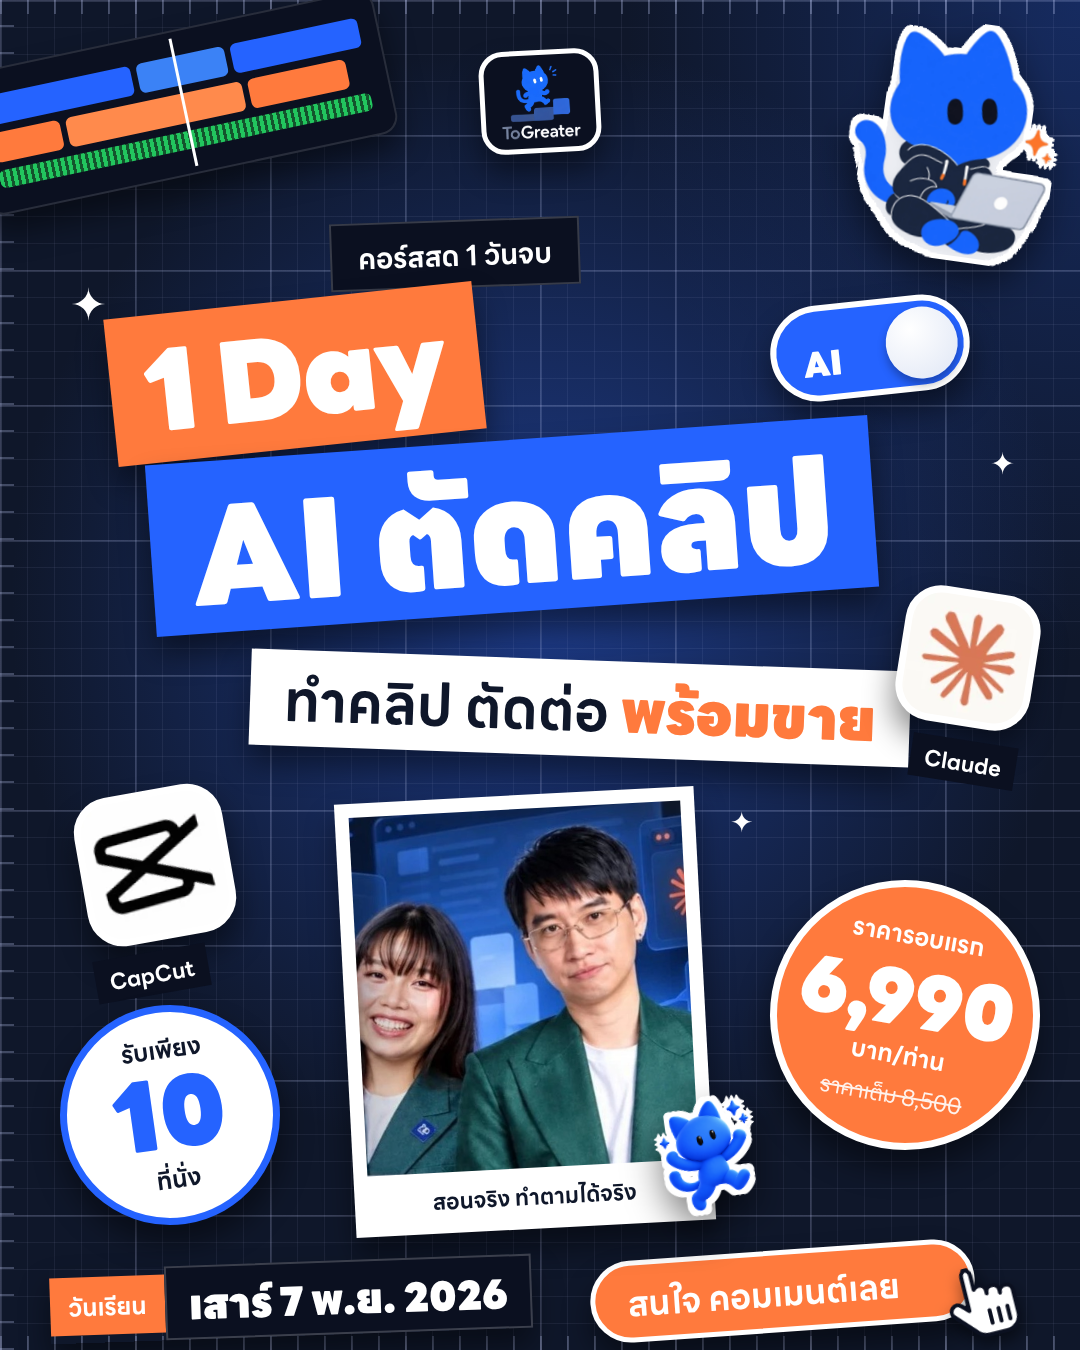
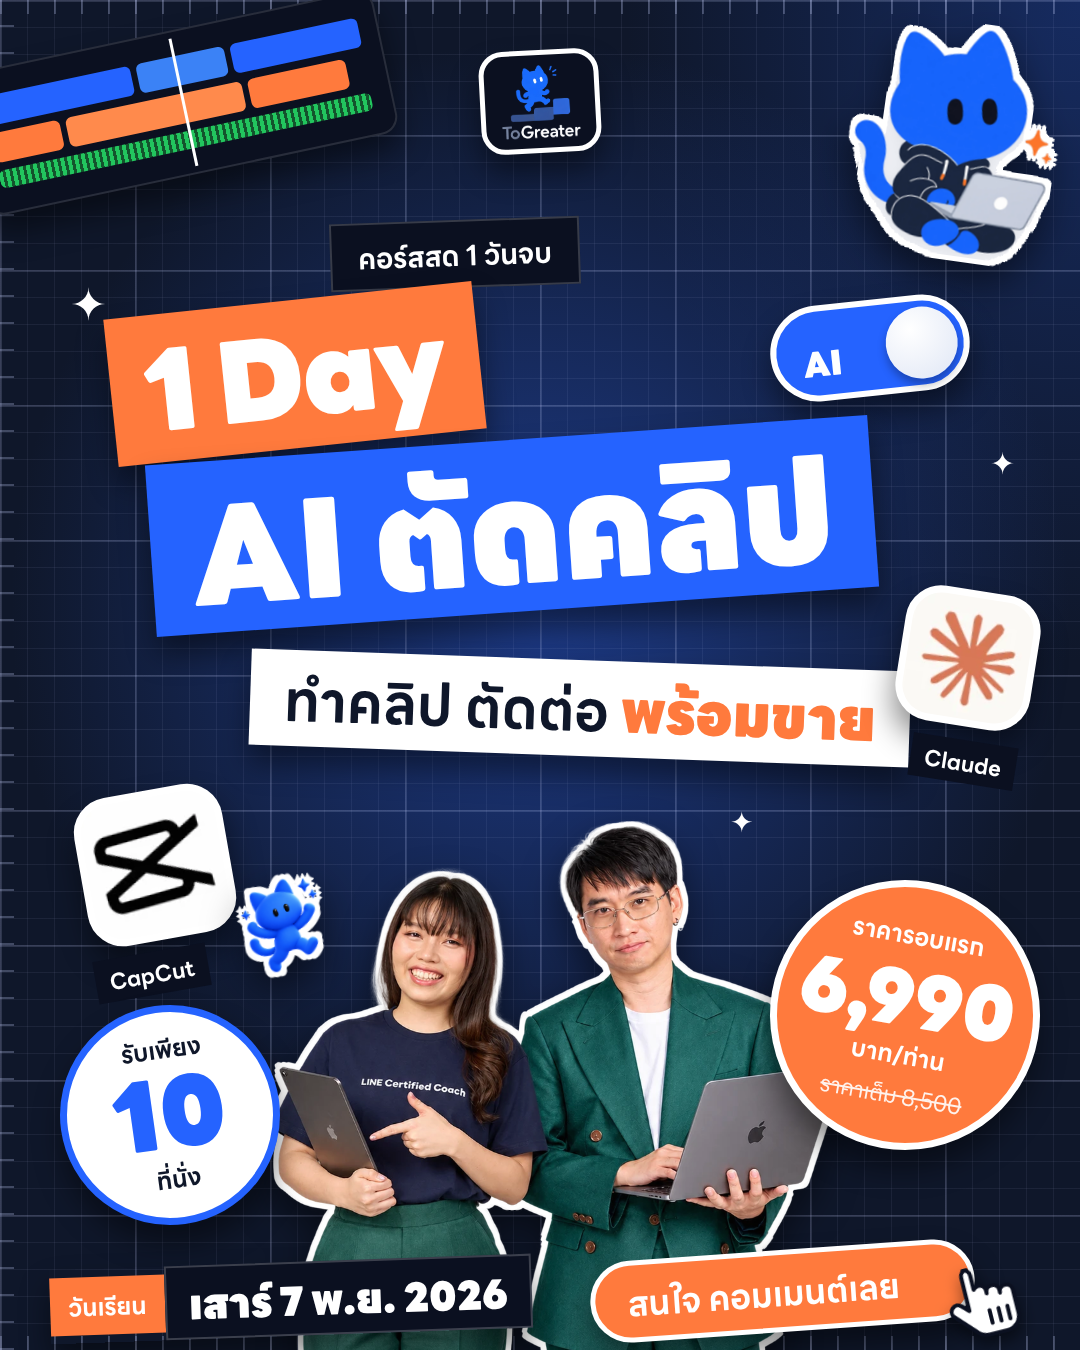
Use high-res instructor cutout as sticker on poster
Claude-Session: https://claude.ai/code/session_01AU6SJgpQqjx92uQU48rYBV

Changed region(s): [[0.2139, 0.56, 0.7639, 1.0]]

diff --git a/poster/ai-capcut-1day.html b/poster/ai-capcut-1day.html
@@ -55,9 +55,9 @@
   .handle span{ background:#0b1020; color:#fff; font-weight:700; font-size:28px; padding:12px 26px 8px; border:2px solid rgba(255,255,255,.18); }
   .handle img{ width:74px; height:74px; margin-left:-10px; transform:rotate(8deg); }
 
-  .tag-comment{ left:590px; top:1250px; transform:rotate(-4deg); background:var(--orange); color:#fff; border:5px solid #fff; border-radius:60px !important;
+  .tag-comment{ z-index:3; left:590px; top:1250px; transform:rotate(-4deg); background:var(--orange); color:#fff; border:5px solid #fff; border-radius:60px !important;
       font-weight:700; font-size:34px; padding:12px 70px 6px 32px; }
-  .cursor{ left:945px; top:1258px; width:84px; transform:rotate(-14deg); }
+  .cursor{ z-index:3; left:945px; top:1258px; width:84px; transform:rotate(-14deg); }
 
   .note{ left:300px; top:765px; transform:rotate(2deg); font-size:26px; color:var(--soft); }
 
@@ -76,7 +76,7 @@
   .toggle b{ position:absolute; left:26px; top:26px; font-size:34px; color:#fff; font-weight:900; }
 
   /* ---------- Badges ---------- */
-  .badge{ border-radius:50%; display:flex; flex-direction:column; align-items:center; justify-content:center; text-align:center; border:7px solid #fff; }
+  .badge{ z-index:3; border-radius:50%; display:flex; flex-direction:column; align-items:center; justify-content:center; text-align:center; border:7px solid #fff; }
   .badge-price{ left:770px; top:880px; width:270px; height:270px; background:var(--orange); color:#fff; transform:rotate(10deg); }
   .badge-price small{ font-size:24px; font-weight:700; }
   .badge-price strong{ font-size:76px; font-weight:900; line-height:1; margin-top:6px; }
@@ -86,12 +86,10 @@
   .badge-seat strong{ font-size:96px; font-weight:900; color:var(--blue); line-height:.95; }
 
   /* ---------- Photo polaroid ---------- */
-  .photo{ left:345px; top:795px; width:360px; background:#fff; padding:14px 14px 0; transform:rotate(-3deg); }
-  .photo img{ width:100%; display:block; }
-  .photo .cap{ color:var(--ink); font-weight:700; font-size:22px; padding:12px 4px 14px; text-align:center; }
+  .people{ left:250px; top:800px; width:600px; z-index:1; }
 
   /* date label */
-  .date{ left:50px; top:1262px; transform:rotate(-2deg); display:flex; align-items:center; }
+  .date{ z-index:3; left:50px; top:1262px; transform:rotate(-2deg); display:flex; align-items:center; }
   .date .k{ background:var(--orange); color:#fff; font-weight:700; font-size:24px; padding:12px 18px 8px; }
   .date .v{ background:#0b1020; color:#fff; font-weight:900; font-size:40px; padding:6px 22px 0; border:2px solid rgba(255,255,255,.2); }
 
@@ -109,7 +107,7 @@
   .logo span i{ font-style:normal; color:var(--blue); }
 
   .cat-laptop{ left:840px; top:20px; width:230px; transform:rotate(8deg); }
-  .cat-sparkle{ left:640px; top:1090px; width:130px; transform:rotate(-8deg); z-index:5; }
+  .cat-sparkle{ left:225px; top:870px; width:110px; transform:rotate(-8deg); z-index:5; }
   .spark{ position:absolute; color:#fff; font-size:44px; }
 </style>
 </head>
@@ -153,11 +151,8 @@
     <path d="M32 40v10M39 40v10M46 40v10" stroke="#0b1020" stroke-width="3" stroke-linecap="round"/>
   </svg>
 
-  <!-- รูปผู้สอน แบบ polaroid -->
-  <div class="abs photo shadow">
-    <img src="assets/instructors.jpg" alt="ผู้สอน">
-    <div class="cap">สอนจริง ทำตามได้จริง</div>
-  </div>
+  <!-- รูปผู้สอน ไดคัท แบบสติกเกอร์ -->
+  <img class="abs people sticker" src="assets/instructors.png" alt="ผู้สอน">
 
   <img class="abs cat-sparkle sticker" src="assets/cat-sparkle.png" alt="">
 
